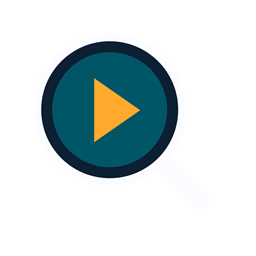
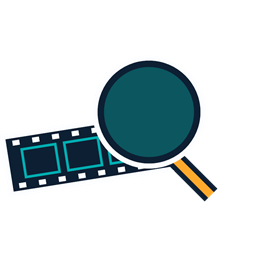
Use dedicated fanart for Live and Archive

Changed region(s): [[0.0, 0.1562, 0.8438, 0.7812]]

diff --git a/tests/test_archive_search.py b/tests/test_archive_search.py
@@ -10,6 +10,7 @@ from pathlib import Path
 from unittest.mock import MagicMock, patch
 
 LIB = Path(__file__).resolve().parents[1] / 'resources' / 'lib'
+ARCHIVE_FANART = os.path.join('addon-path', 'resources', 'images', 'archive_fanart.jpg')
 
 
 def load_module(name, path):
@@ -188,7 +189,7 @@ class ArchiveSearchUiTests(unittest.TestCase):
         self.assertEqual(args[2].setArt.call_args.args[0], {
             'icon': os.path.join('addon-path', 'resources', 'images', 'search.png'),
             'thumb': os.path.join('addon-path', 'resources', 'images', 'search.png'),
-            'fanart': os.path.join('addon-path', 'fanart.jpg'),
+            'fanart': ARCHIVE_FANART,
         })
 
     def test_download_menu_in_search_and_day_program(self):
@@ -228,7 +229,7 @@ class ArchiveSearchUiTests(unittest.TestCase):
         item_art = self.plugin.addDirectoryItem.call_args.args[2].setArt.call_args.args[0]
         self.assertEqual(item_art['poster'], 'https://example.test/cover.jpg')
         self.assertEqual(item_art['thumb'], 'https://example.test/cover.jpg')
-        self.assertEqual(item_art['fanart'], os.path.join('addon-path', 'fanart.jpg'))
+        self.assertEqual(item_art['fanart'], ARCHIVE_FANART)
 
     def test_archive_channel_folder_uses_logo(self):
         self.channels.get_channels_list.return_value = {
@@ -241,11 +242,11 @@ class ArchiveSearchUiTests(unittest.TestCase):
         search.args[2].setArt.assert_called_once_with({
             'icon': os.path.join('addon-path', 'resources', 'images', 'search.png'),
             'thumb': os.path.join('addon-path', 'resources', 'images', 'search.png'),
-            'fanart': os.path.join('addon-path', 'fanart.jpg'),
+            'fanart': ARCHIVE_FANART,
         })
         channel.args[2].setArt.assert_called_once_with({
             'icon': 'station.png', 'thumb': 'station.png',
-            'fanart': os.path.join('addon-path', 'fanart.jpg'),
+            'fanart': ARCHIVE_FANART,
         })
         self.assertTrue(channel.args[3])
 
@@ -263,7 +264,7 @@ class ArchiveSearchUiTests(unittest.TestCase):
         for day, (item, call) in enumerate(zip(items, calls)):
             item.setArt.assert_called_once_with({
                 'icon': 'station.png', 'thumb': 'station.png',
-                'fanart': os.path.join('addon-path', 'fanart.jpg'),
+                'fanart': ARCHIVE_FANART,
             })
             self.assertEqual(call.args[1]['action'], 'list_program')
             self.assertEqual(call.args[1]['id'], '1')
@@ -278,7 +279,7 @@ class ArchiveSearchUiTests(unittest.TestCase):
                 self.gui.ListItem.reset_mock()
                 self.archive.list_archive_days('1', 'Archive / One', '0')
                 self.gui.ListItem.return_value.setArt.assert_called_once_with({
-                    'fanart': os.path.join('addon-path', 'fanart.jpg'),
+                    'fanart': ARCHIVE_FANART,
                 })
         self.archive.channel_logo.assert_called_once()
 
@@ -319,7 +320,7 @@ class ArchiveSearchUiTests(unittest.TestCase):
         self.plugin.addDirectoryItem.call_args.args[2].setArt.assert_called_once_with({
             'icon': 'station.png',
             'thumb': 'station.png',
-            'fanart': os.path.join('addon-path', 'fanart.jpg'),
+            'fanart': ARCHIVE_FANART,
         })
 
     def test_cancel_and_errors(self):
@@ -394,7 +395,7 @@ class ArchiveSearchUiTests(unittest.TestCase):
             'icon': os.path.join('addon-path', 'resources', 'images', 'search.png'),
             'poster': 'https://extendedepg-gonet.antik.sk/programme_icon/1',
             'thumb': 'https://extendedepg-gonet.antik.sk/programme_icon/1',
-            'fanart': os.path.join('addon-path', 'fanart.jpg'),
+            'fanart': ARCHIVE_FANART,
         })
 
         self.antik_cache.get.return_value = (False, None)
@@ -408,7 +409,7 @@ class ArchiveSearchUiTests(unittest.TestCase):
         self.plugin.addDirectoryItem.call_args.args[2].setArt.assert_called_once_with({
             'icon': os.path.join('addon-path', 'resources', 'images', 'search.png'),
             'thumb': os.path.join('addon-path', 'resources', 'images', 'search.png'),
-            'fanart': os.path.join('addon-path', 'fanart.jpg'),
+            'fanart': ARCHIVE_FANART,
         })
 
     def test_artwork_api_failure_stops_lookups_but_keeps_all_results(self):
@@ -431,7 +432,7 @@ class ArchiveSearchUiTests(unittest.TestCase):
             'icon': os.path.join('addon-path', 'resources', 'images', 'search.png'),
             'poster': cached['poster'],
             'thumb': cached['poster'],
-            'fanart': os.path.join('addon-path', 'fanart.jpg'),
+            'fanart': ARCHIVE_FANART,
         })
         self.antik_cache.put.assert_not_called()
         self.gui.Dialog.return_value.notification.assert_not_called()
@@ -501,7 +502,9 @@ class StationLogoTests(unittest.TestCase):
         items = [MagicMock(), MagicMock(), MagicMock()]
         self.gui.ListItem.side_effect = items
         live.list_live('Live')
-        default_fanart = str(Path(self.addon.Addon.return_value.getAddonInfo.return_value) / 'fanart.jpg')
+        default_fanart = str(
+            Path(self.addon.Addon.return_value.getAddonInfo.return_value)
+            / 'resources' / 'images' / 'live_fanart.jpg')
         for item, ident, expected_fanart in zip(
                 items, ('stv_1', 'joj_cinema', 'missing'), (fanart, default_fanart, default_fanart)):
             art = {'fanart': expected_fanart}

diff --git a/resources/lib/archive.py b/resources/lib/archive.py
@@ -32,7 +32,7 @@ def list_archive(label):
     addon = xbmcaddon.Addon()    
     xbmcplugin.setPluginCategory(_handle, label)
     addon_path = addon.getAddonInfo('path')
-    fanart = os.path.join(addon_path, 'fanart.jpg')
+    fanart = os.path.join(addon_path, 'resources', 'images', 'archive_fanart.jpg')
     search_icon = os.path.join(addon_path, 'resources', 'images', 'search.png')
     channels = Channels()
     channels_list = channels.get_channels_list('channel_number')
@@ -59,7 +59,7 @@ def list_archive(label):
 def search_archive(label, query = None):
     addon = xbmcaddon.Addon()
     addon_path = addon.getAddonInfo('path')
-    fanart = os.path.join(addon_path, 'fanart.jpg')
+    fanart = os.path.join(addon_path, 'resources', 'images', 'archive_fanart.jpg')
     search_icon = os.path.join(addon_path, 'resources', 'images', 'search.png')
     if query is None:
         keyboard = xbmc.Keyboard('', addon.getLocalizedString(300113))
@@ -114,7 +114,7 @@ def search_archive(label, query = None):
 
 def list_archive_days(id, label, days):
     addon = xbmcaddon.Addon()
-    fanart = os.path.join(addon.getAddonInfo('path'), 'fanart.jpg')
+    fanart = os.path.join(addon.getAddonInfo('path'), 'resources', 'images', 'archive_fanart.jpg')
     xbmcplugin.setPluginCategory(_handle, label)
     channel = Channels().get_channels_list('id').get(id)
     logo = channel_logo(channel, addon) if channel else None
@@ -140,7 +140,7 @@ def list_archive_days(id, label, days):
 
 def list_program(id, day_min, label):
     addon = xbmcaddon.Addon()
-    fanart = os.path.join(addon.getAddonInfo('path'), 'fanart.jpg')
+    fanart = os.path.join(addon.getAddonInfo('path'), 'resources', 'images', 'archive_fanart.jpg')
     channel = Channels().get_channels_list('id').get(id)
     logo = channel_logo(channel, addon) if channel else None
     label = label.replace(addon.getLocalizedString(300112) + ' /','')

diff --git a/tests/test_upstream_alignment.py b/tests/test_upstream_alignment.py
@@ -163,3 +163,14 @@ class MainMenuArtworkTests(unittest.TestCase):
                 'icon': path,
                 'fanart': str(Path('addon-path') / 'fanart.jpg'),
             })
+        for query, filename in (
+                ('action=list_live&label=Live', 'live_fanart.jpg'),
+                ('action=list_archive&label=Archive', 'archive_fanart.jpg'),
+                ('action=list_archive_days&id=1&days=1&label=Archive', 'archive_fanart.jpg'),
+                ('action=list_program&id=1&day_min=0&label=Archive', 'archive_fanart.jpg'),
+                ('action=search_archive&label=Archive', 'archive_fanart.jpg')):
+            with self.subTest(query=query):
+                plugin.setPluginFanart.reset_mock()
+                module.router(query)
+                expected = str(Path('addon-path') / 'resources' / 'images' / filename)
+                plugin.setPluginFanart.assert_called_once_with(1, expected)

diff --git a/main.py b/main.py
@@ -49,9 +49,15 @@ def main_menu():
 
 def router(paramstring):
     addon = xbmcaddon.Addon()
-    fanart = os.path.join(addon.getAddonInfo('path'), 'fanart.jpg')
-    xbmcplugin.setPluginFanart(_handle, fanart)
+    addon_path = addon.getAddonInfo('path')
     params = dict(parse_qsl(paramstring))
+    if params.get('action') == 'list_live':
+        fanart = os.path.join(addon_path, 'resources', 'images', 'live_fanart.jpg')
+    elif params.get('action') in ('list_archive', 'search_archive', 'list_archive_days', 'list_program'):
+        fanart = os.path.join(addon_path, 'resources', 'images', 'archive_fanart.jpg')
+    else:
+        fanart = os.path.join(addon_path, 'fanart.jpg')
+    xbmcplugin.setPluginFanart(_handle, fanart)
     check_settings() 
     if params:
         if params['action'] == 'list_live':

diff --git a/resources/lib/live.py b/resources/lib/live.py
@@ -18,7 +18,7 @@ if len(sys.argv) > 1:
 def list_live(label):
     kodi_version = get_kodi_version()
     addon = xbmcaddon.Addon()
-    fanart = os.path.join(addon.getAddonInfo('path'), 'fanart.jpg')
+    fanart = os.path.join(addon.getAddonInfo('path'), 'resources', 'images', 'live_fanart.jpg')
     xbmcplugin.setPluginCategory(_handle, label)
     xbmcplugin.setContent(_handle, 'twshows')
     channels = Channels()

diff --git a/README.md b/README.md
@@ -31,7 +31,8 @@ this fork.
   search, keep the fanart background while navigating, and fall back to it when
   programme artwork is unavailable. Archive programmes without a thumbnail
   use their station logo. Live TV and archive have cinematic menu artwork;
-  archive search keeps its simpler magnifying-glass icon.
+  each section has matching fanart, and archive search keeps a simpler
+  film-strip magnifying-glass icon.
 - **Archive search:** Search programme titles across visible channels and their
   configured archive retention. If retention is unknown, the search uses
   14 days. Results can also be requested through Kodi's JSON-RPC interface.

diff --git a/CHANGELOG.md b/CHANGELOG.md
@@ -7,6 +7,8 @@
 - Keep plugin fanart available while navigating and use it when programme artwork is missing.
 - Use the station logo for archive programmes without their own thumbnail.
 - Replace Live TV and archive menu icons with original cinematic artwork.
+- Add matching section fanart for Live TV and Archive while keeping the main-menu fanart.
+- Simplify archive search to a film-strip magnifier icon.
 
 ## v0.0.2 - 2026-11-25
 
